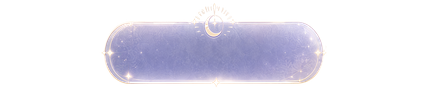
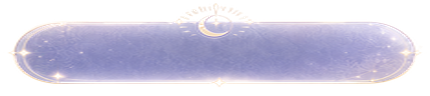
Refine diary detail cards and report button

diff --git a/docs/ITERATION_LOG.md b/docs/ITERATION_LOG.md
@@ -441,6 +441,19 @@
 - 提交：待提交
 - 远端状态：待用户确认是否 push
 
+## 2026-06-14 - 日记详情页卡片文字与报告按钮修复
+
+- 页面/模块：情绪日记 / 日记详情 `diary` screen
+- 改动文件：`miniprogram/assets/diary-detail-v2/diary-report-button-bg.png`、`miniprogram/pages/index/index.wxml`、`miniprogram/pages/index/index.wxss`、`docs/ITERATION_LOG.md`
+- 根因：四个卡片左侧 icon 是 WXML 里单独插入的 `<image class="diary-detail-card-icon">`，同时 `.diary-detail-card` 为 icon 保留了 `128rpx` 左 padding，导致文字看起来没有完全左对齐。底部按钮问题不是全局 `.ghost` 首因，而是 `diary-report-button-bg.png` 自身可见 alpha 范围只有约 `x=99..329`，430px 画布左右各有接近 100px 透明留白，所以真机看起来背景没有包住文案。
+- 改动摘要：移除四个详情卡片左侧 icon 节点；将卡片 padding 改为左右统一 `42rpx`，标题和正文显式左对齐；本地重排 `diary-report-button-bg.png`，裁掉横向透明留白后重新铺满 `430x96` 透明画布，并为按钮文字补充固定行高和不换行规则。
+- 冻结范围：未修改顶部导航位置、标题栏、`navLayout`、底部 tab、整体固定背景、标签切图、日记数据和打开完整塔罗报告的业务逻辑。
+- 验证：`sips -g pixelWidth -g pixelHeight -g hasAlpha miniprogram/assets/diary-detail-v2/*.png` 确认资源尺寸与 alpha；`du -ch miniprogram/assets/diary-detail-v2/*.png | tail -1` 显示资源总量约 `112K`；`node --check miniprogram/pages/index/index.js` 通过；`node --check miniprogram/utils/navLayout.js` 通过；`python3 -m json.tool project.config.json >/dev/null` 通过；`python3 -m json.tool miniprogram/app.json >/dev/null` 通过；`git diff --check` 通过；微信开发者工具 `cli preview` 成功并生成 `output/wechat-preview/preview-qrcode-display.png`，总包约 `2931110` Byte，主包约 `1898010` Byte，`/packages/tarot-assets/` 约 `1033100` Byte。
+- 风险/待确认：按钮背景是本地横向重排后的版本，视觉比原图更宽，需要真机确认与参考图的按钮宽度是否符合预期。
+- 基线/对比：`git diff --stat -- miniprogram/assets/diary-detail-v2/diary-report-button-bg.png miniprogram/pages/index/index.wxml miniprogram/pages/index/index.wxss docs/ITERATION_LOG.md`
+- 提交：待提交
+- 远端状态：待用户确认是否 push
+
 ## 2026-06-14 - 日记详情页切图接入
 
 - 页面/模块：情绪日记 / 日记详情 `diary` screen
